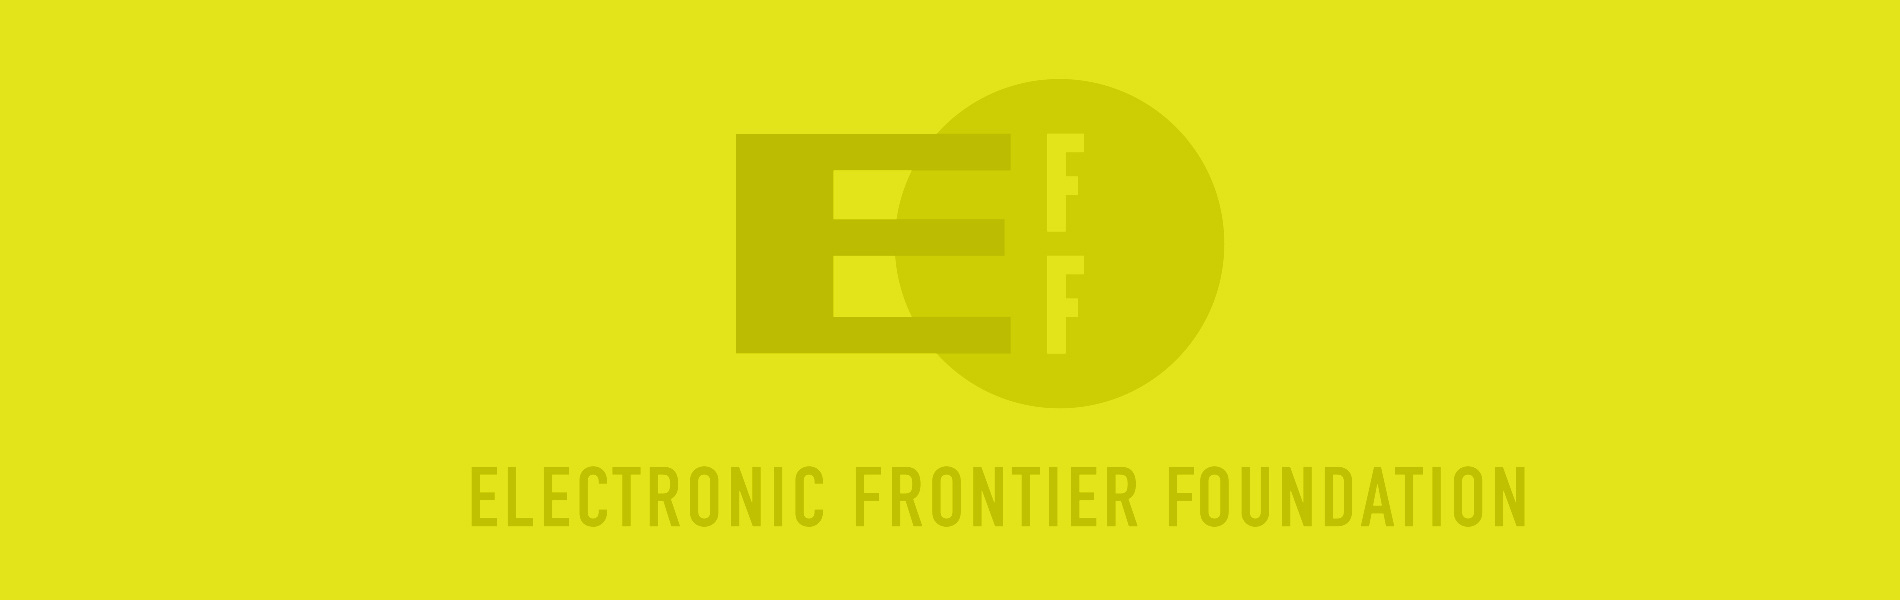
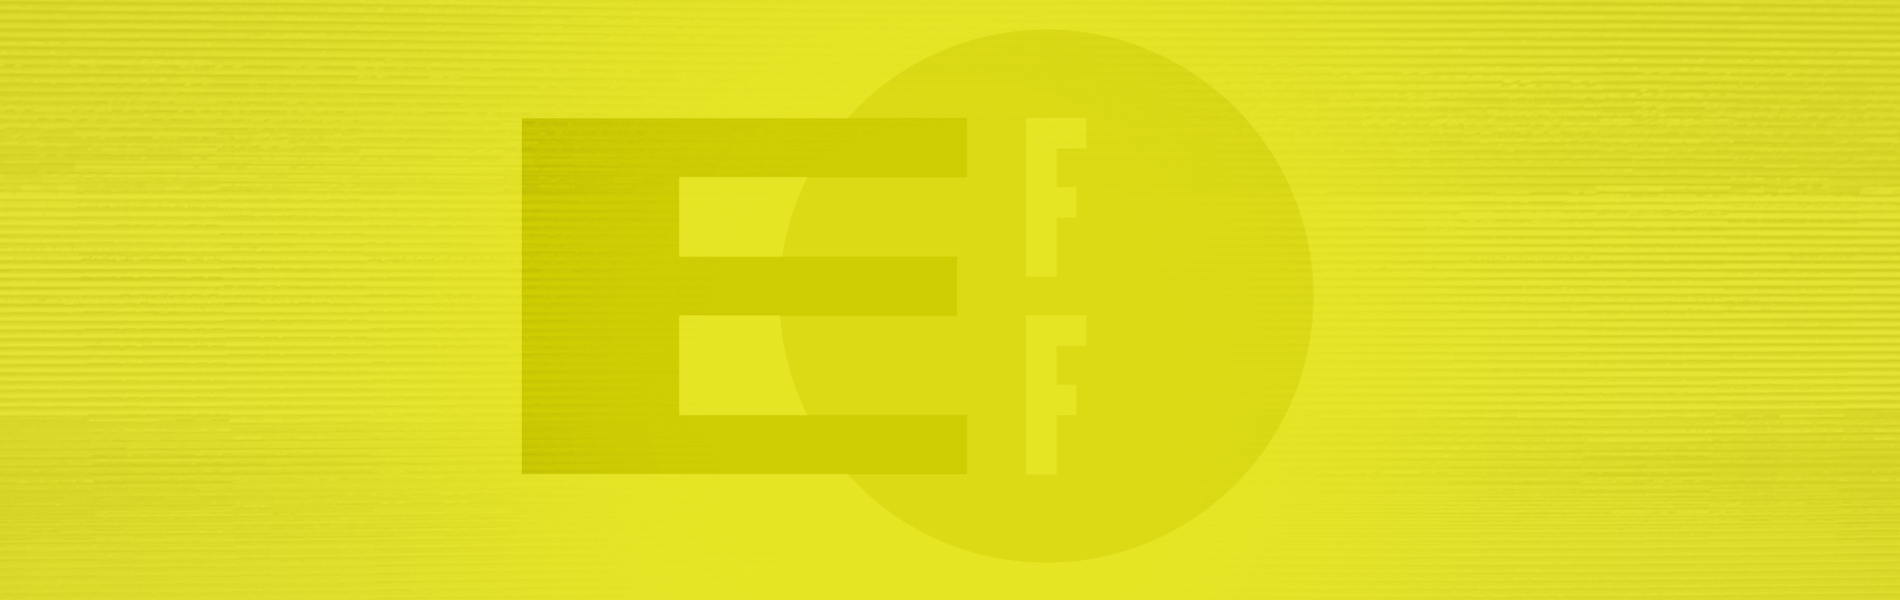
Minor design updates. Upated some post header images. Added summarys to posts

diff --git a/themes/clean-blog/static/css/overides.css b/themes/clean-blog/static/css/overides.css
@@ -61,8 +61,21 @@ a:hover {
   color: #e6e524;
 }
 
-.post-preview > .post-meta > a:focus {
+.post-preview > .post-meta > a:hover {
   color: #e6e524;
+}
+
+
+.intro-header .post-heading .meta {
+  color: white;
+  font-family: 'Open Sans',Lora,'Times New Roman',serif;
+  background-color: #222;
+  height: 30px;
+  padding: 3px 10px;
+}
+
+.intro-header .post-heading .meta a {
+  color: #white;
 }
 
 /* Header
@@ -76,6 +89,10 @@ a:hover {
 
 .intro-header .page-heading span {
   color: black;
+}
+
+hr.small {
+  display: none;
 }
 
 /* Navbar
@@ -123,6 +140,11 @@ pre {
 
 li.active {
   background: #222;
+}
+
+.navbar-custom.is-fixed .navbar-brand:hover,
+.navbar-custom.is-fixed .nav li a:hover {
+  color: #e6e524;;
 }
 
 /* About Page

diff --git a/themes/clean-blog/templates/base.html b/themes/clean-blog/templates/base.html
@@ -155,7 +155,7 @@
         </div>
     </div>
 
-    <hr>
+    <!--<hr>-->
 
     <!-- Footer -->
     <footer>

diff --git a/content/detroit-shoreway-camera-program.md b/content/detroit-shoreway-camera-program.md
@@ -1,37 +1,24 @@
 Title: Detroit Shoreway Camera Program
 Date: 2016-11-2 10:20
 Category: News
+Header_Cover: ../images/detroit-shoreway.jpg
+Summary: The Digital Freedom Initiative Announces Opposition to the Detroit Shoreway Community Development Organization Camera Program
 
-November 21, 2016
+<h4>November 21, 2016</h4>
 
-For Immediate Release
+<h3>For Immediate Release</h3>
 
-The Digital Freedom Initiative Announces Opposition to the Detroit Shoreway Community Development Organization Camera
-Program
+The Digital Freedom Initiative Announces Opposition to the Detroit Shoreway Community Development Organization Camera Program
 
-The Digital Freedom Initiative has become aware of a troubling development in the Detroit Shoreway neighborhood.  
-According to reports we have received the Detroit Shoreway Community Development Organization intends to install,
-and control, public surveillance cameras on a neighborhood-wide scale.  This initiative not only places the security of
-the networks of residents that are willing to host camera infrastructure at risk of compromise, due to the notorious
- lack of security presented by internet connected camera systems, but the organization of mass public surveillance
- by a private entity sets a disturbing precedent.
+The Digital Freedom Initiative has become aware of a troubling development in the Detroit Shoreway neighborhood. According to reports we have received the Detroit Shoreway Community Development Organization intends to install, and control, public surveillance cameras on a neighborhood-wide scale.  This initiative not only places the security of the networks of residents that are willing to host camera infrastructure at risk of compromise, due to the notorious lack of security presented by internet connected camera systems, but the organization of mass public surveillance by a private entity sets a disturbing precedent.
 
-"The camera initiative, from the information that has been gathered, is unlike anything that we have been able to find
- public record of.  Unlike past programs in Cleveland, which subsidize the purchase of privately controlled cameras
- that film primarily privately owned space, this program is a centralized program, run by a private entity, to film
- public space"
+The camera initiative, from the information that has been gathered, is unlike anything that we have been able to find public record of.  Unlike past programs in Cleveland, which subsidize the purchase of privately controlled cameras that film primarily privately owned space, this program is a centralized program, run by a private entity, to film public space.
 
-"This initiative crosses a number of lines that separates the public from the private, and places the question of
-surveillance in the hands of unaccountable private entities which exist outside of public transparency laws and
-practices.  As a result, this program represents a mass invasion of privacy carried out by a private entity, all with
-little to no public feedback."
+This initiative crosses a number of lines that separates the public from the private, and places the question of surveillance in the hands of unaccountable private entities which exist outside of public transparency laws and practices. As a result, this program represents a mass invasion of privacy carried out by a private entity, all with
+little to no public feedback.
 
-"These concerns exist along side a list of general concerns that the organization has surrounding surveillance and the
-imposition of surveillance on neighborhood populations.  As we have seen with the revelations around the Snowden leaks,
- surveillance can generate a profound chilling effect in relation to creativity, expression and political action, as
- well as shape the way that residents live their everyday life."
+These concerns exist along side a list of general concerns that the organization has surrounding surveillance and the imposition of surveillance on neighborhood populations.  As we have seen with the revelations around the Snowden leaks, surveillance can generate a profound chilling effect in relation to creativity, expression and political action, as well as shape the way that residents live their everyday life.
 
-The Digital Freedom Initiative is a Cleveland based organization dedicated to preserving and expanding freedom,
-creativity and transparency in the digital world and beyond.  
+The Digital Freedom Initiative is a Cleveland based organization dedicated to preserving and expanding freedom, creativity and transparency in the digital world and beyond.  
 
-Press inquiries can be sent to press@digitalfreedominitiative.org.
+**Press inquiries can be sent to press@digitalfreedominitiative.org.**

diff --git a/content/a-primer-on-surveillance-and-intelligence-gathering-in-cleveland.md b/content/a-primer-on-surveillance-and-intelligence-gathering-in-cleveland.md
@@ -2,6 +2,7 @@ Title: A Primer on Surveillance and Intelligence Gathering in the City of Clevel
 Date: 2017-6-20 6:30
 Category: Report
 Header_Cover: images/surveillance-report.jpg
+Summary: A report produced by Digital Freedom Initiative outlining various surveillance and intelligence gathering techniques being used in Cleveland.
 
 <a href="images/surveillance-report.pdf">Download a PDF of the Report</a>
 

diff --git a/content/digital-freedom-initiative-joins-electronic-frontier-alliance.md b/content/digital-freedom-initiative-joins-electronic-frontier-alliance.md
@@ -1,6 +1,7 @@
 Title: Digital Freedom Initiative Joins Electronic Frontier Alliance
 Date: 2017-02-05 14:30
 Header_Cover: images/eff.jpg
+Summary: The Digital Freedom Initiative's announcement of our joining with the Electronic Frontier Alliance.
 
 
 We are proud to announce that the Digital Freedom Initiative is joining the Electronic Frontier Alliance.
